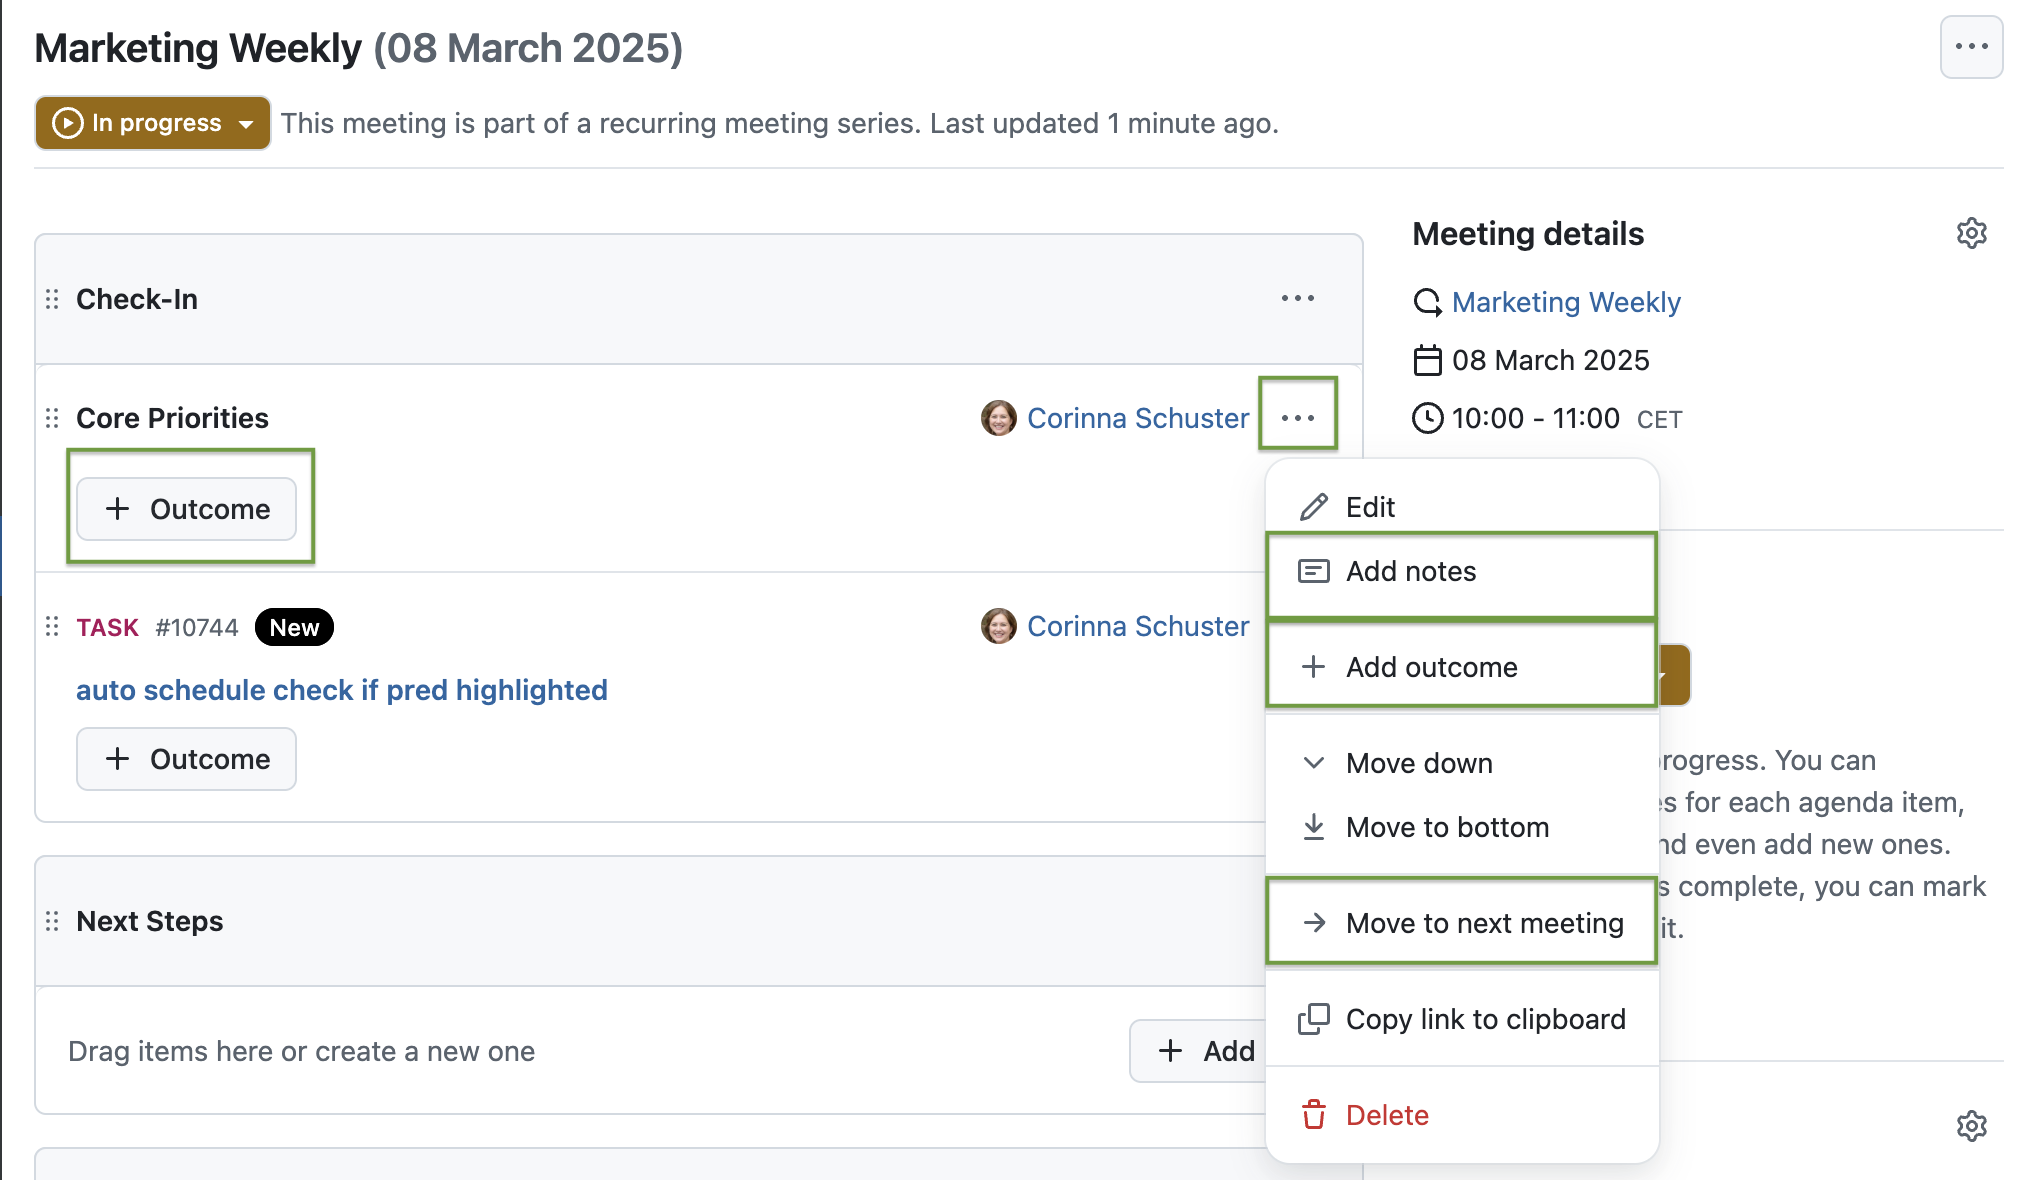
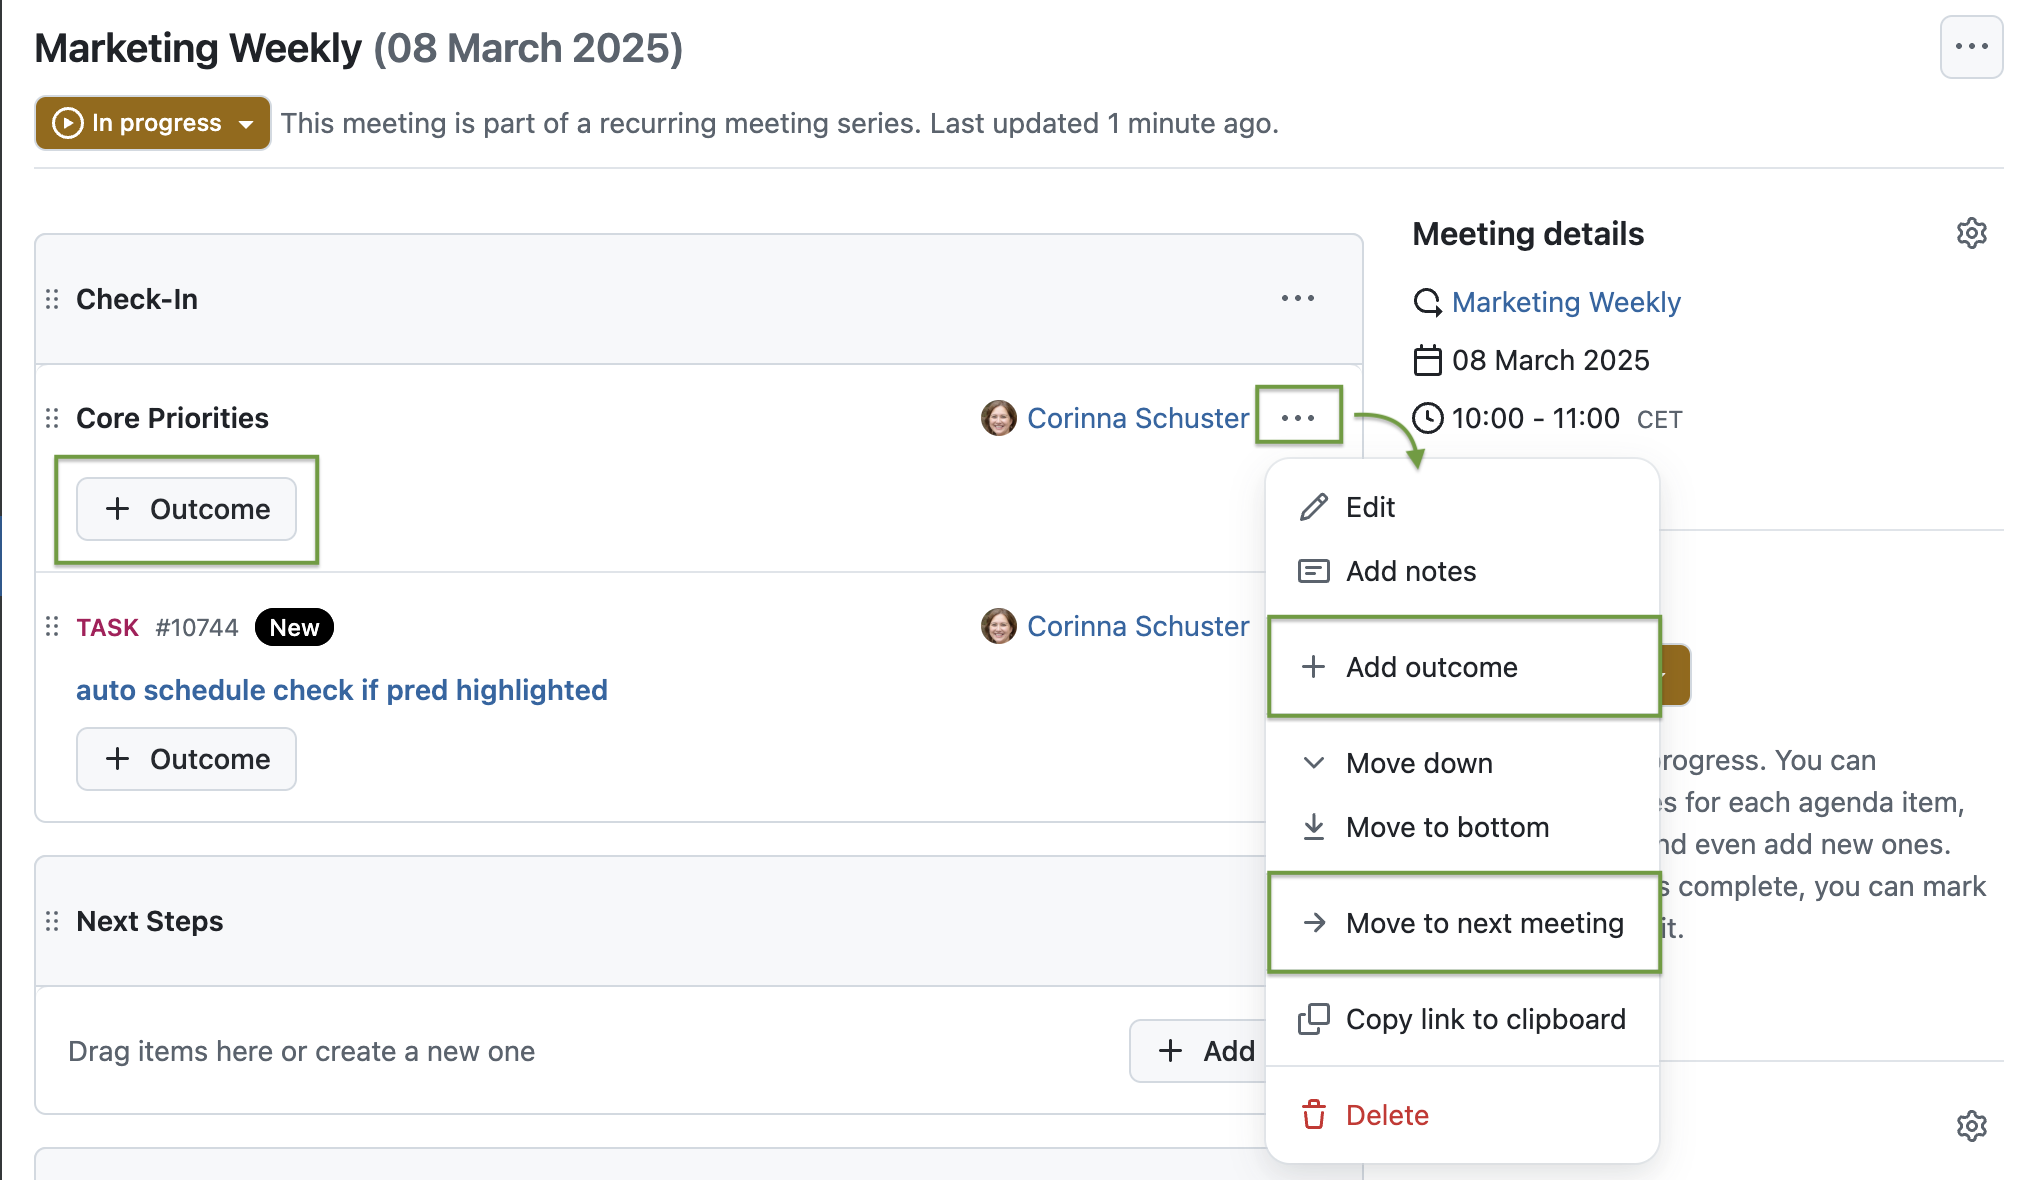
RN Meeting outcomes

diff --git a/docs/release-notes/15-4-0/README.md b/docs/release-notes/15-4-0/README.md
@@ -40,13 +40,16 @@ In February 2025, we already published a milestone for our Meetings module: [Rec
 > [!NOTE]
 > In our classic meetings module, users could write "minutes", which are notes taken during the meeting. Users can still edit the agenda item description to do so, but now they can also use the outcome feature to make it more clear.
 
-Text (important: goal is to let meeting participants note relevant decisions, questions and follow-up actions during a meeting. Also: More features to follow, workflow for minutes and participants on closing the meeting (#61911) and Meeting agenda items backlog for recurring meetings (#54751).)
+The updated Meetings module now allows you to set a Meeting status: 
 
-https://community.openproject.org/wp/57799
+![Screenshot: OpenProject's Meetings module, setting a meeting status](openproject-15-4-meeting-status.png)
 
-![alt text](openproject-15-4-meeting-status.png) 
+Once the status is "in progress", you can add outcomes to every agenda item. If it is a recurring meeting, can also move the agenda item to the next meeting:
 
-![alt text](openproject-15-4-meetings-outcome-highlighted.png)
+![Screenshot: OpenProject's Meetings module, options for an agenda item if the meeting status is 'in progress'](openproject-15-4-meetings-outcome-highlighted.png)
+
+> [!NOTE]
+> In the following months, we will continue working on the Meetings module. For example, when a recurring meeting is closed, it should be possible to move all agenda items without outcomes to the next meeting ([see this feature](https://community.openproject.org/wp/61911)). Also, a meeting agenda items backlog for recurring meetings is planned ([see this feature](https://community.openproject.org/wp/54751)).
 
 ### Generate PDF documents from a work package description
 
@@ -78,7 +81,7 @@ Text
 
 https://community.openproject.org/wp/61733
 
-Link to the new 3 parts in the docs which were before enumerations page
+Link to the new 3 parts in the docs which were before enumerations page: https://github.com/opf/openproject/pull/18197/files
 
 Screenshot
 
